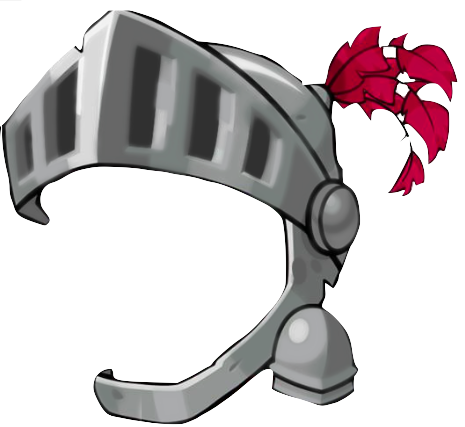
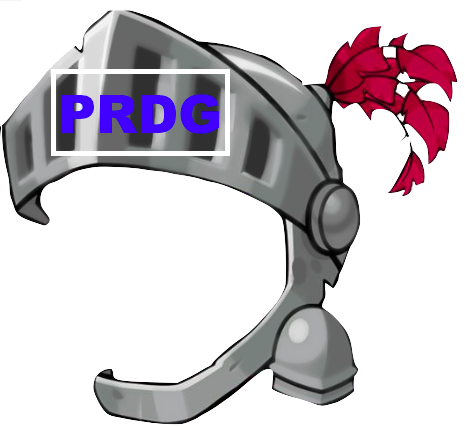
Added watermark

Changed region(s): [[0.0903, 0.1522, 0.5118, 0.3653]]

diff --git a/Face_detection.py b/Face_detection.py
@@ -1,22 +1,31 @@
+# include library for computer vision
 import cv2
 
+# include Haar Cascade (trained sample data) to compare to faces
 face_cascade = cv2.CascadeClassifier('haarcascade_frontalface_default.xml')
+
+# include "filter"
 helmet = cv2.imread('helmet.png')
 
-
+# get video input
 cap = cv2.VideoCapture(0)
 
 while 1:
+    # get frames
     ret, img = cap.read()
+    # convert frames to grayscale
     gray = cv2.cvtColor(img, cv2.COLOR_BGR2GRAY)
-    try:
-        faces = face_cascade.detectMultiScale(gray, 1.3, 5)
-    except:
-        pass
 
+    font = cv2.FONT_HERSHEY_SIMPLEX
+    cv2.putText(img, 'par Andrew Mourcos', (0, 15), font, 0.5, (255, 255, 255), 1, cv2.LINE_AA)
+
+    # detect faces
+    faces = face_cascade.detectMultiScale(gray, 1.3, 5)
+
+    # iterate over faces found
     for (x, y, w, h) in faces:
         h = h+150
-        w= w+150
+        w = w+150
         roi_color = img[y-100:y -100 + h, x:x + w]
         resize_helmet = cv2.resize(helmet, (w,h), interpolation=cv2.INTER_AREA)
 
@@ -36,5 +45,3 @@ while 1:
         if k == 27:
             cap.release()
             cv2.destroyAllWindows()
-
-
